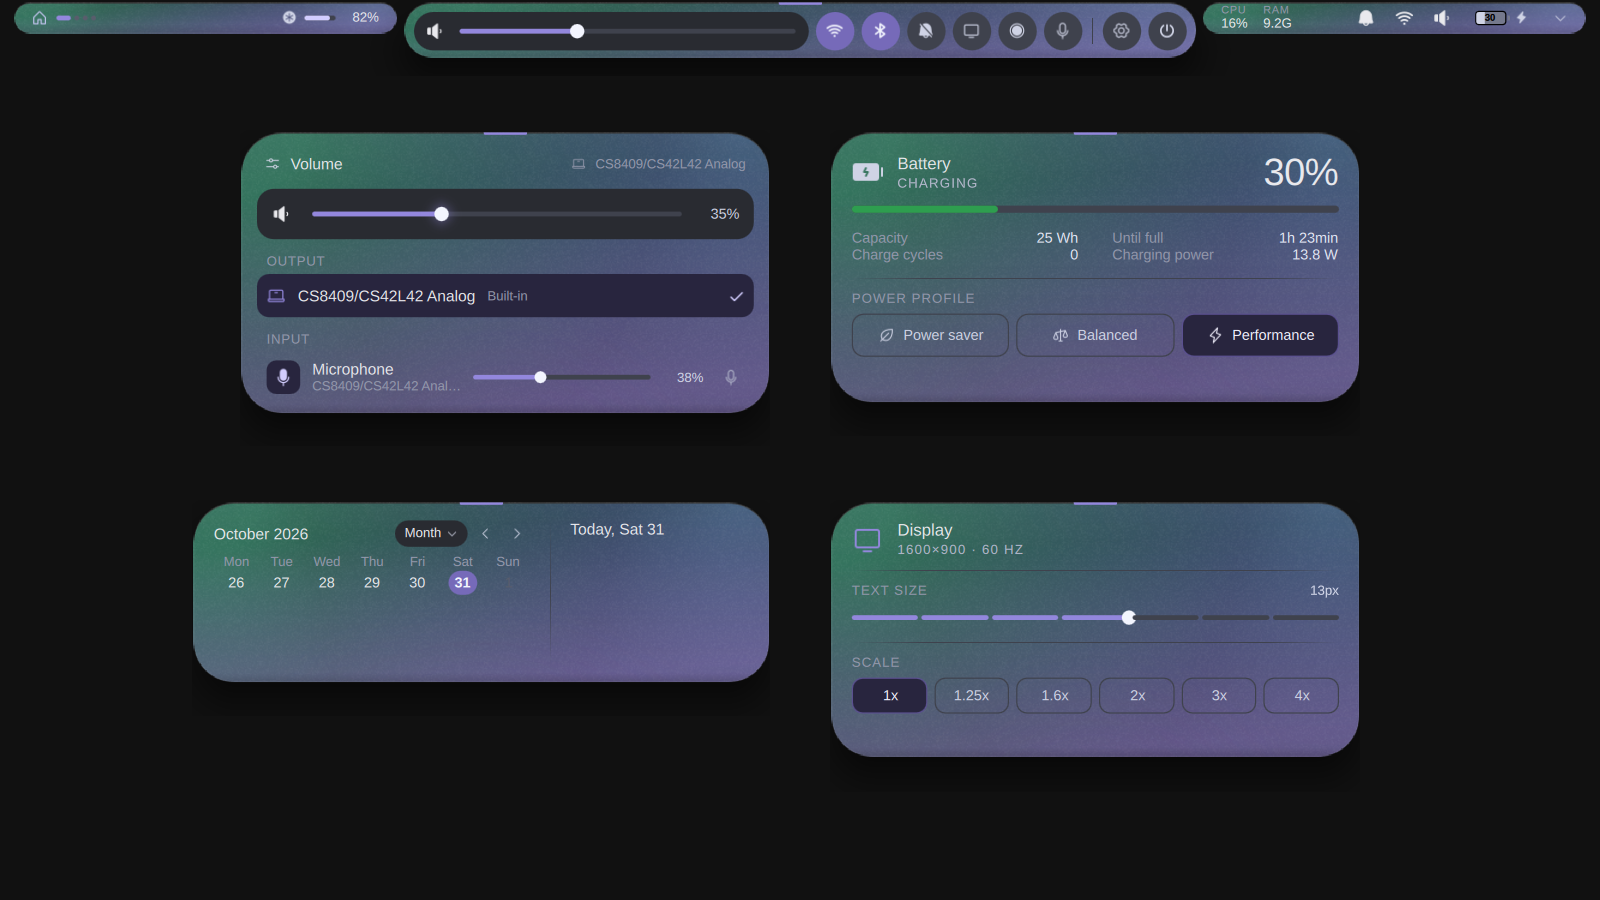
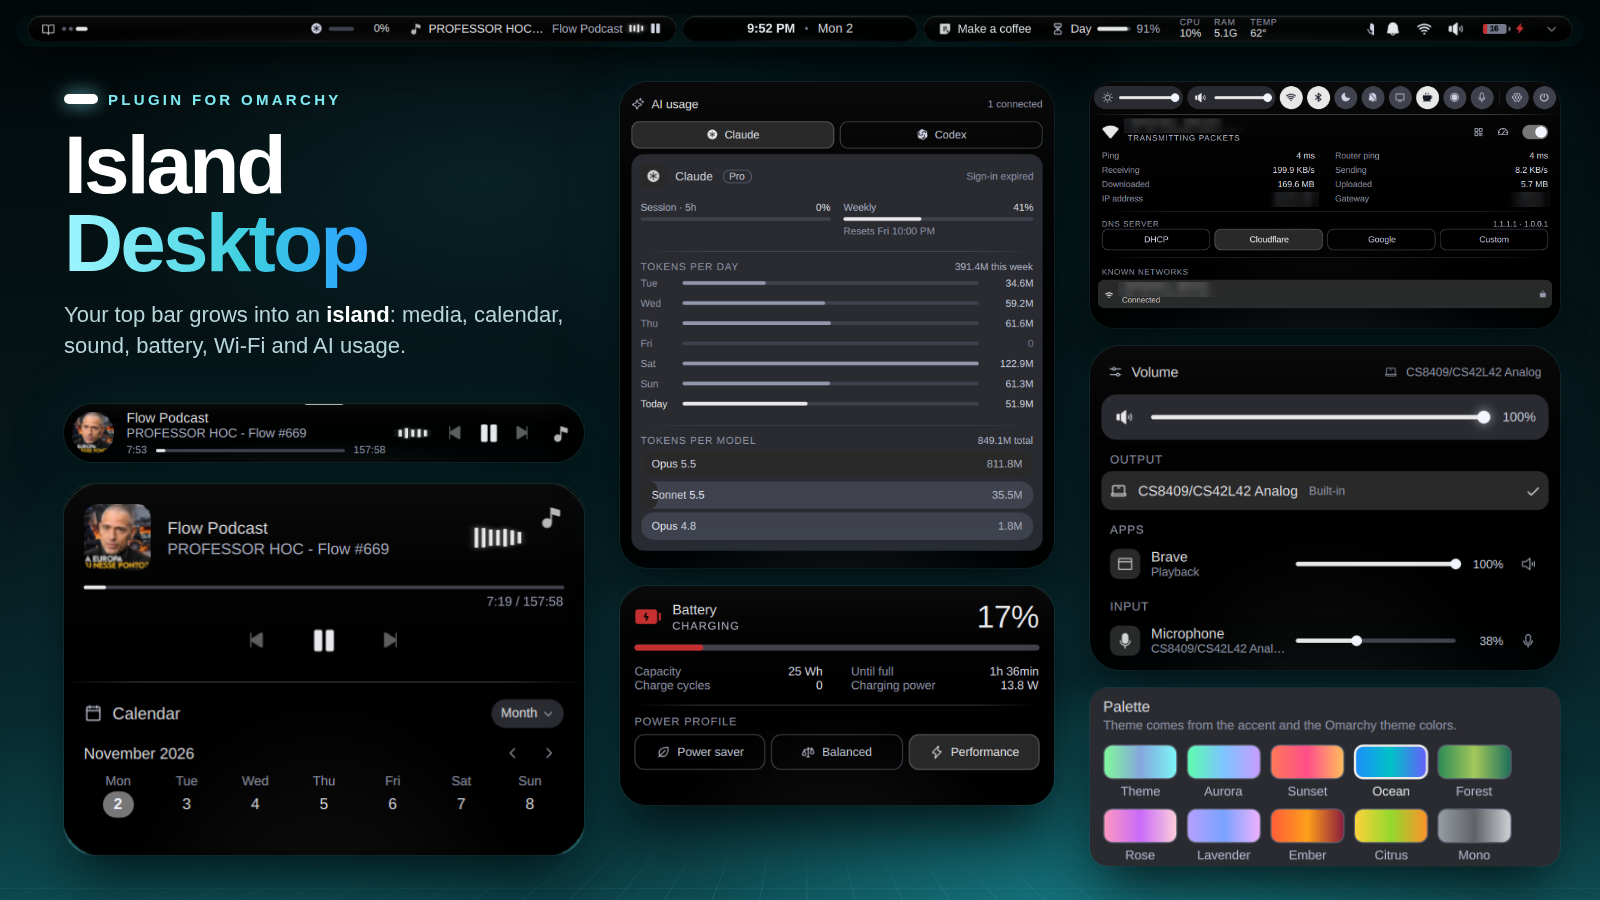
docs(marketplace): new preview image
The marketplace card and detail page show the top bar, the island panels and the theme palette. Wi-Fi network name, IP and gateway are blurred.

diff --git a/CHANGELOG.md b/CHANGELOG.md
@@ -4,6 +4,10 @@ Island releases, the Omarchy bar plugin. Format from [Keep a Changelog](https://
 
 ## [Unreleased]
 
+### Changed
+
+- New marketplace preview: the top bar, the island panels (media and calendar, AI usage, battery, Wi-Fi, volume) and the theme palette in one image.
+
 ## [0.8.1] - 2026-11-02
 
 ### Fixed
